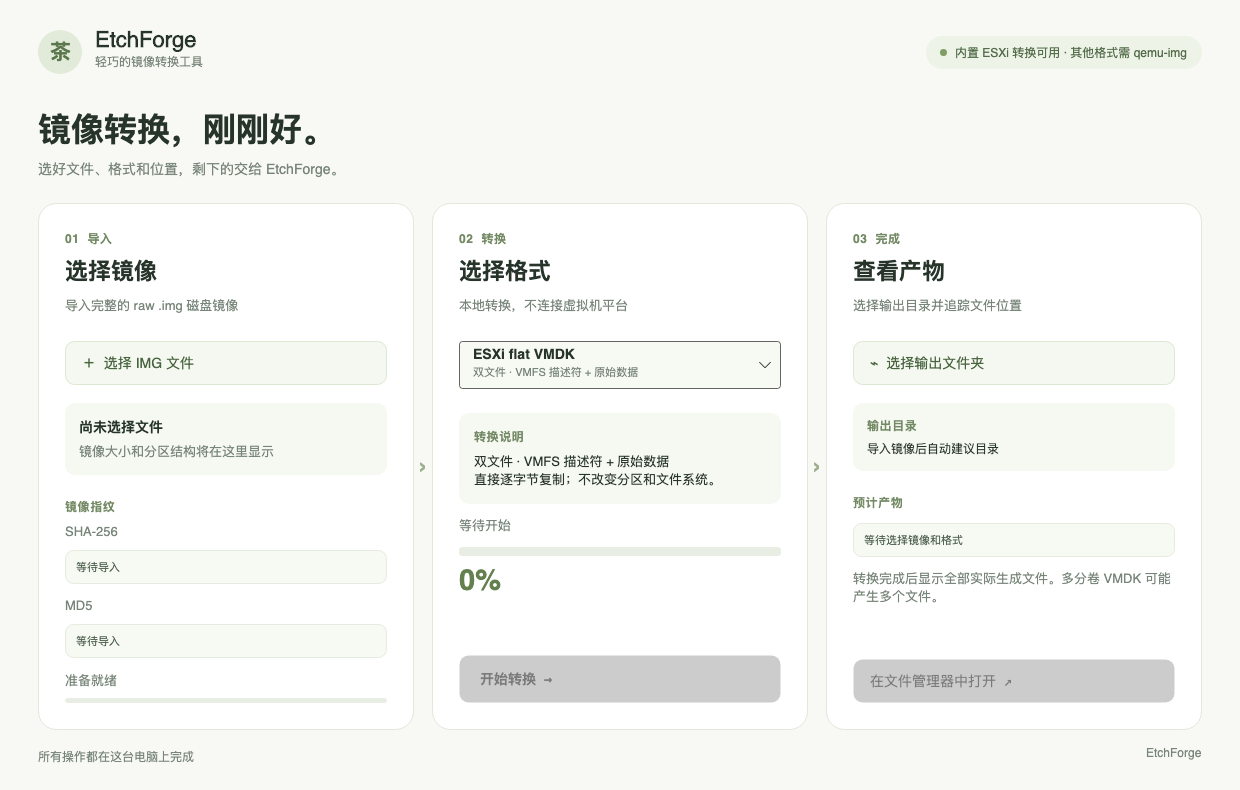
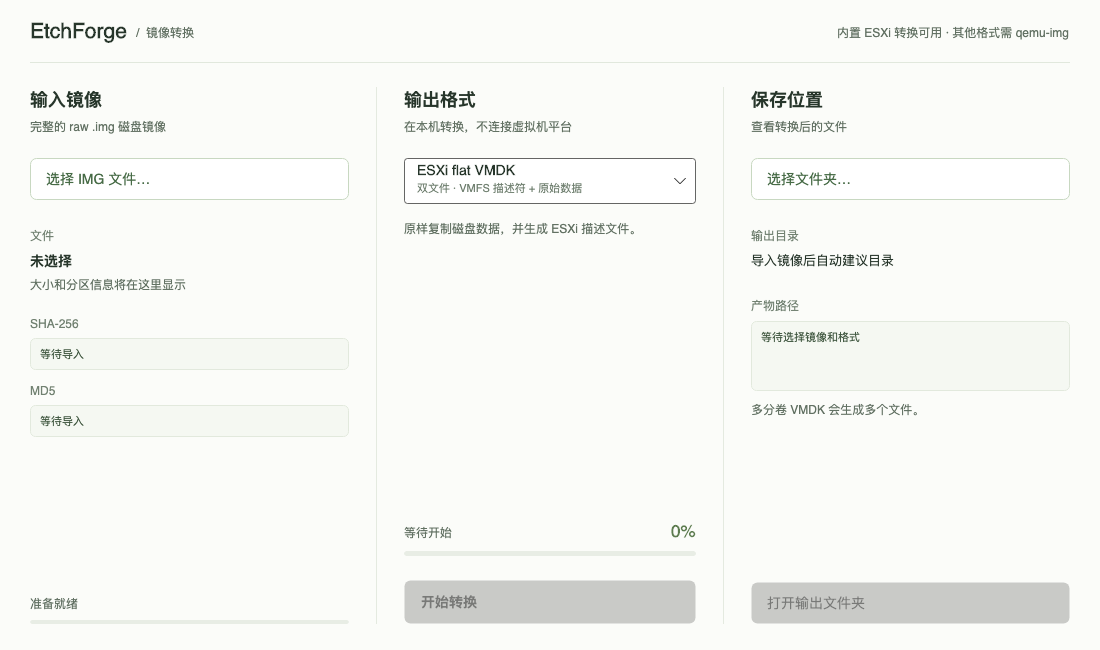
Simplify converter UI layout

diff --git a/MainWindow.axaml.cs b/MainWindow.axaml.cs
@@ -127,9 +127,9 @@ public partial class MainWindow : Window
     private void RefreshPreview()
     {
         if (FormatPicker.SelectedItem is not OutputFormat format) return;
-        FormatDescription.Text = format.Description + (format.IsNativeEsxi
-            ? "\n直接逐字节复制；不改变分区和文件系统。"
-            : "\n由 qemu-img 在本机离线转换。");
+        FormatDescription.Text = format.IsNativeEsxi
+            ? "原样复制磁盘数据，并生成 ESXi 描述文件。"
+            : "使用 qemu-img 在本机转换。";
         OutputDirectoryText.Text = _outputDirectory ?? "导入镜像后自动建议目录";
         if (_image is null || _outputDirectory is null)
             OutputPreview.Text = "等待选择镜像和格式";
